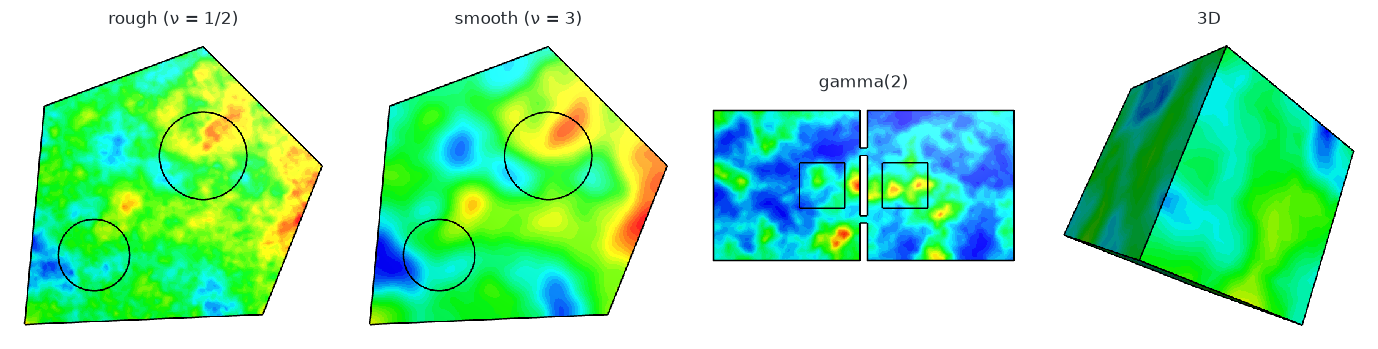
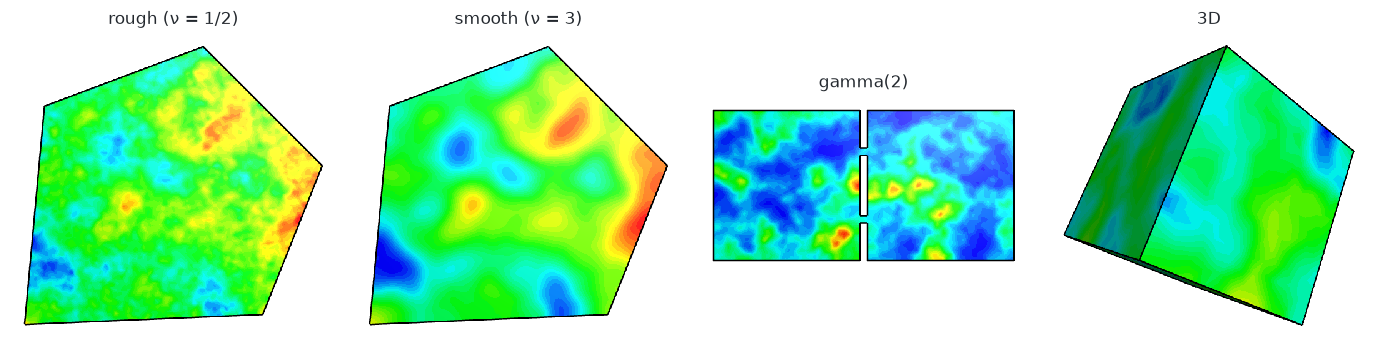
README polish

diff --git a/docs/assets/make_figures.py b/docs/assets/make_figures.py
@@ -25,6 +25,8 @@ warnings.simplefilter("ignore")
 
 def show(ax, field, mesh=None, title=None, width=520, **kw):
     extra = {} if isinstance(field, ngs.GridFunction) else {"mesh": mesh}
+    if (field.space.mesh if isinstance(field, ngs.GridFunction) else mesh).dim == 2:
+        extra["subdomains"] = False  # no lines between subdomains, only the boundary (2D meshes only)
     ngsplot.Plot(field, ax=ax, colorbar=False, width=width, height=None, fit="box", **extra, **LOOK, **kw)
     ax.set_axis_off()
     if title:

diff --git a/README.md b/README.md
@@ -220,8 +220,7 @@ Every sampler must have an in-place form (`out=`); [tests/test_inplace.py](tests
 
 ## Citing
 
-If ngsrng helps your research, please cite it (GitHub's "Cite this repository" button reads
-[CITATION.cff](CITATION.cff)):
+If ngsrng helps your research, please cite it:
 
 ```bibtex
 @software{ngsrng,
@@ -233,8 +232,7 @@ If ngsrng helps your research, please cite it (GitHub's "Cite this repository" b
 }
 ```
 
-The randomised low-rank algorithms follow [Aarset (2024), Algorithm 2](https://arxiv.org/abs/2410.16590), and
-[Halko, Martinsson & Tropp (2011)](https://doi.org/10.1137/090771806).
+The randomised low-rank algorithms follow [Halko, Martinsson & Tropp (2011)](https://doi.org/10.1137/090771806).
 
 ## License
 
